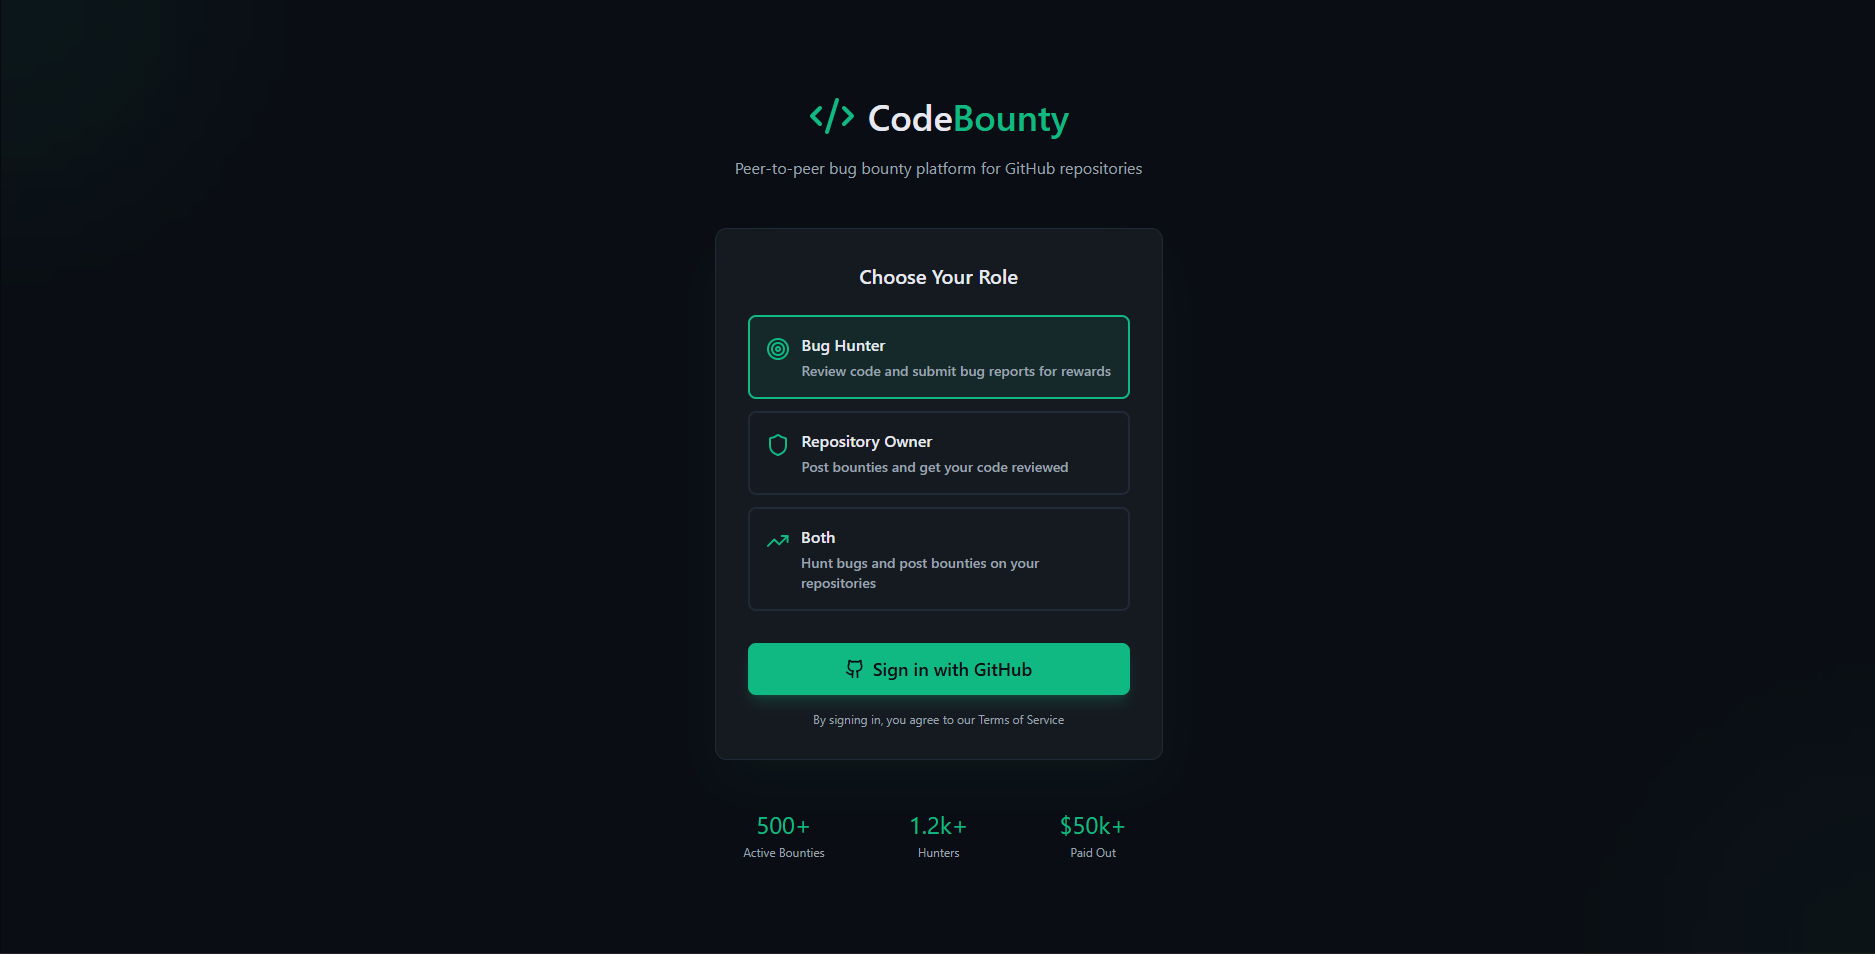
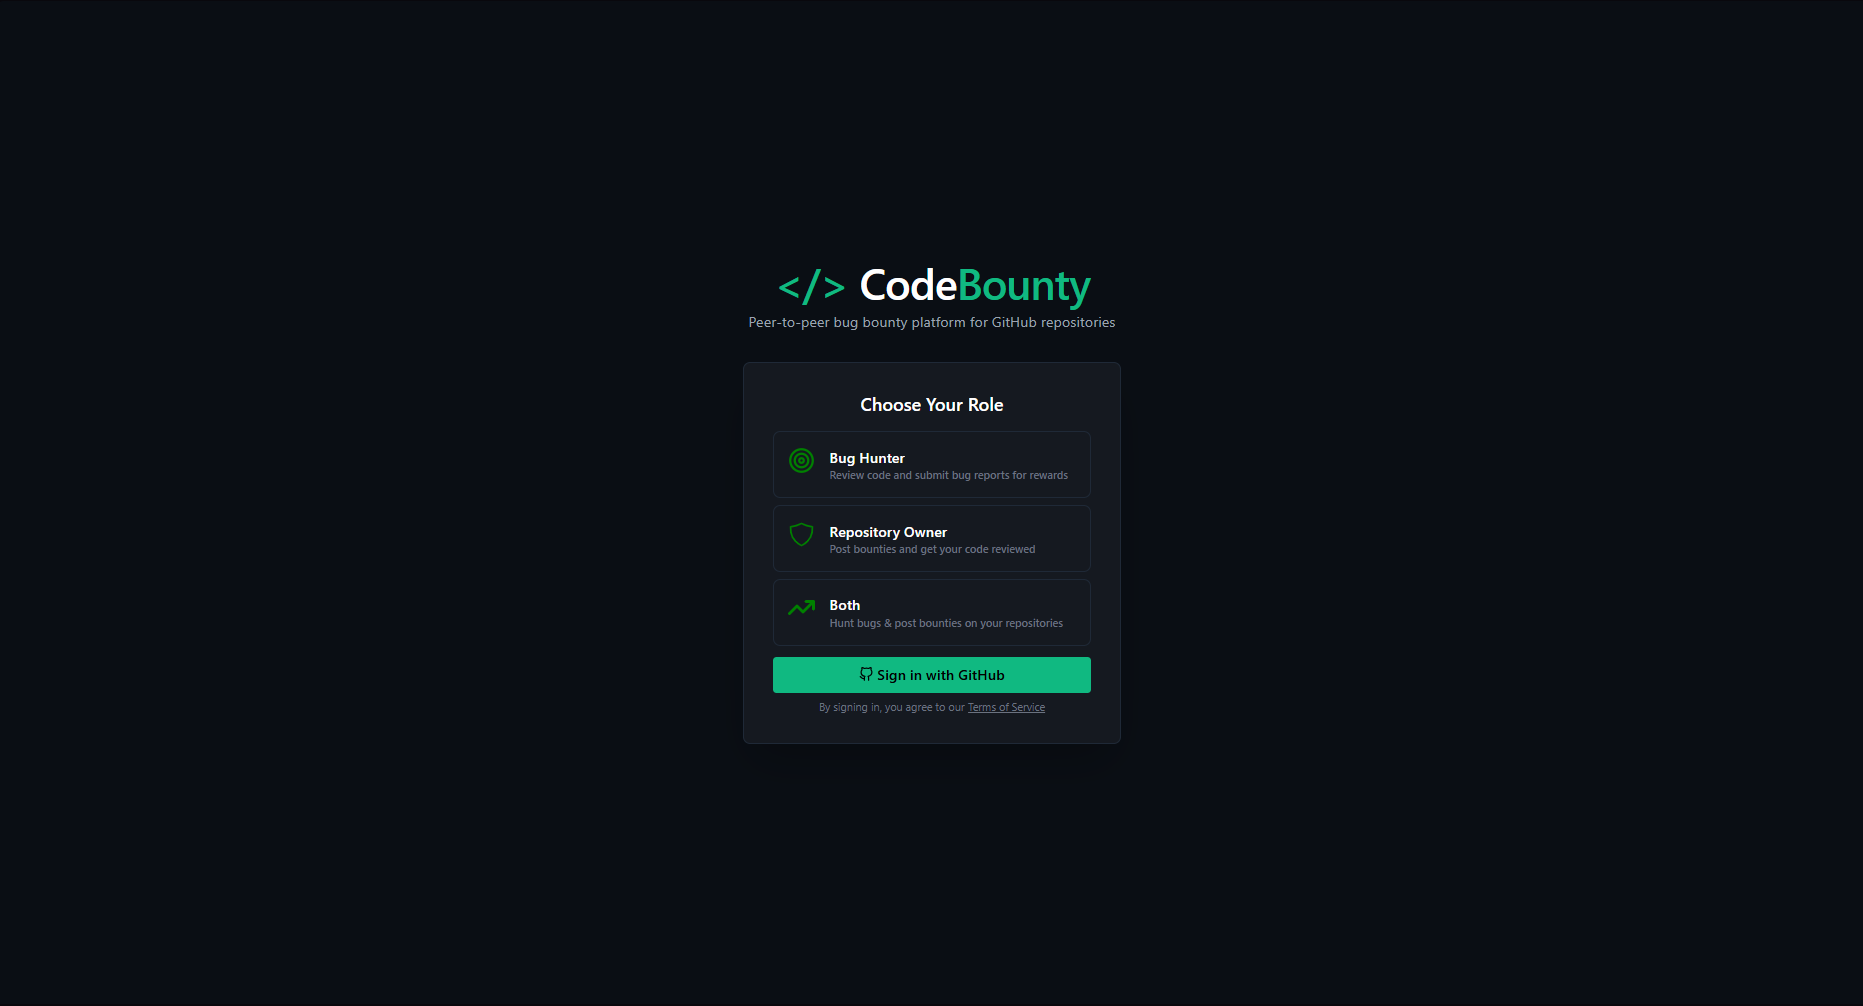
updating the UI screenshots

diff --git a/frontend/src/components.tsx/subcomp/Submissions.tsx b/frontend/src/components.tsx/subcomp/Submissions.tsx
@@ -7,7 +7,7 @@ const submissions = () => {
     <div>
         <h2 className='text-2xl font-semibold mb-4'>Your Submissions</h2>
 
-        <div className='flex gap-2 flex-row rounded-xl bg-[#151920] border border-gray-800 p-6 justify-start items-start hover:border-emerald-700 cursor-pointer'>
+        <div className='flex gap-2 flex-row rounded-xl bg-[#151920] border border-gray-800 p-6 justify-start items-start cursor-pointer'>
             <div className='bg-yellow-600/10 rounded-xl p-1'>
               <MdAccessTimeFilled className="text-yellow-500"  opacity={0.8} size={35} />
             </div>
@@ -21,7 +21,7 @@ const submissions = () => {
             </div>
         </div>
 
-        <div className=' mt-4 flex gap-2 flex-row rounded-xl bg-[#151920] border border-gray-800 p-6 justify-start items-start hover:border-emerald-700 cursor-pointer'>
+        <div className=' mt-4 flex gap-2 flex-row rounded-xl bg-[#151920] border border-gray-800 p-6 justify-start items-start cursor-pointer'>
             <div className='bg-green-600/10 rounded-xl p-1'>
               <IoCheckmarkCircleOutline  className="text-green-500"  opacity={0.8} size={35} />
             </div>
